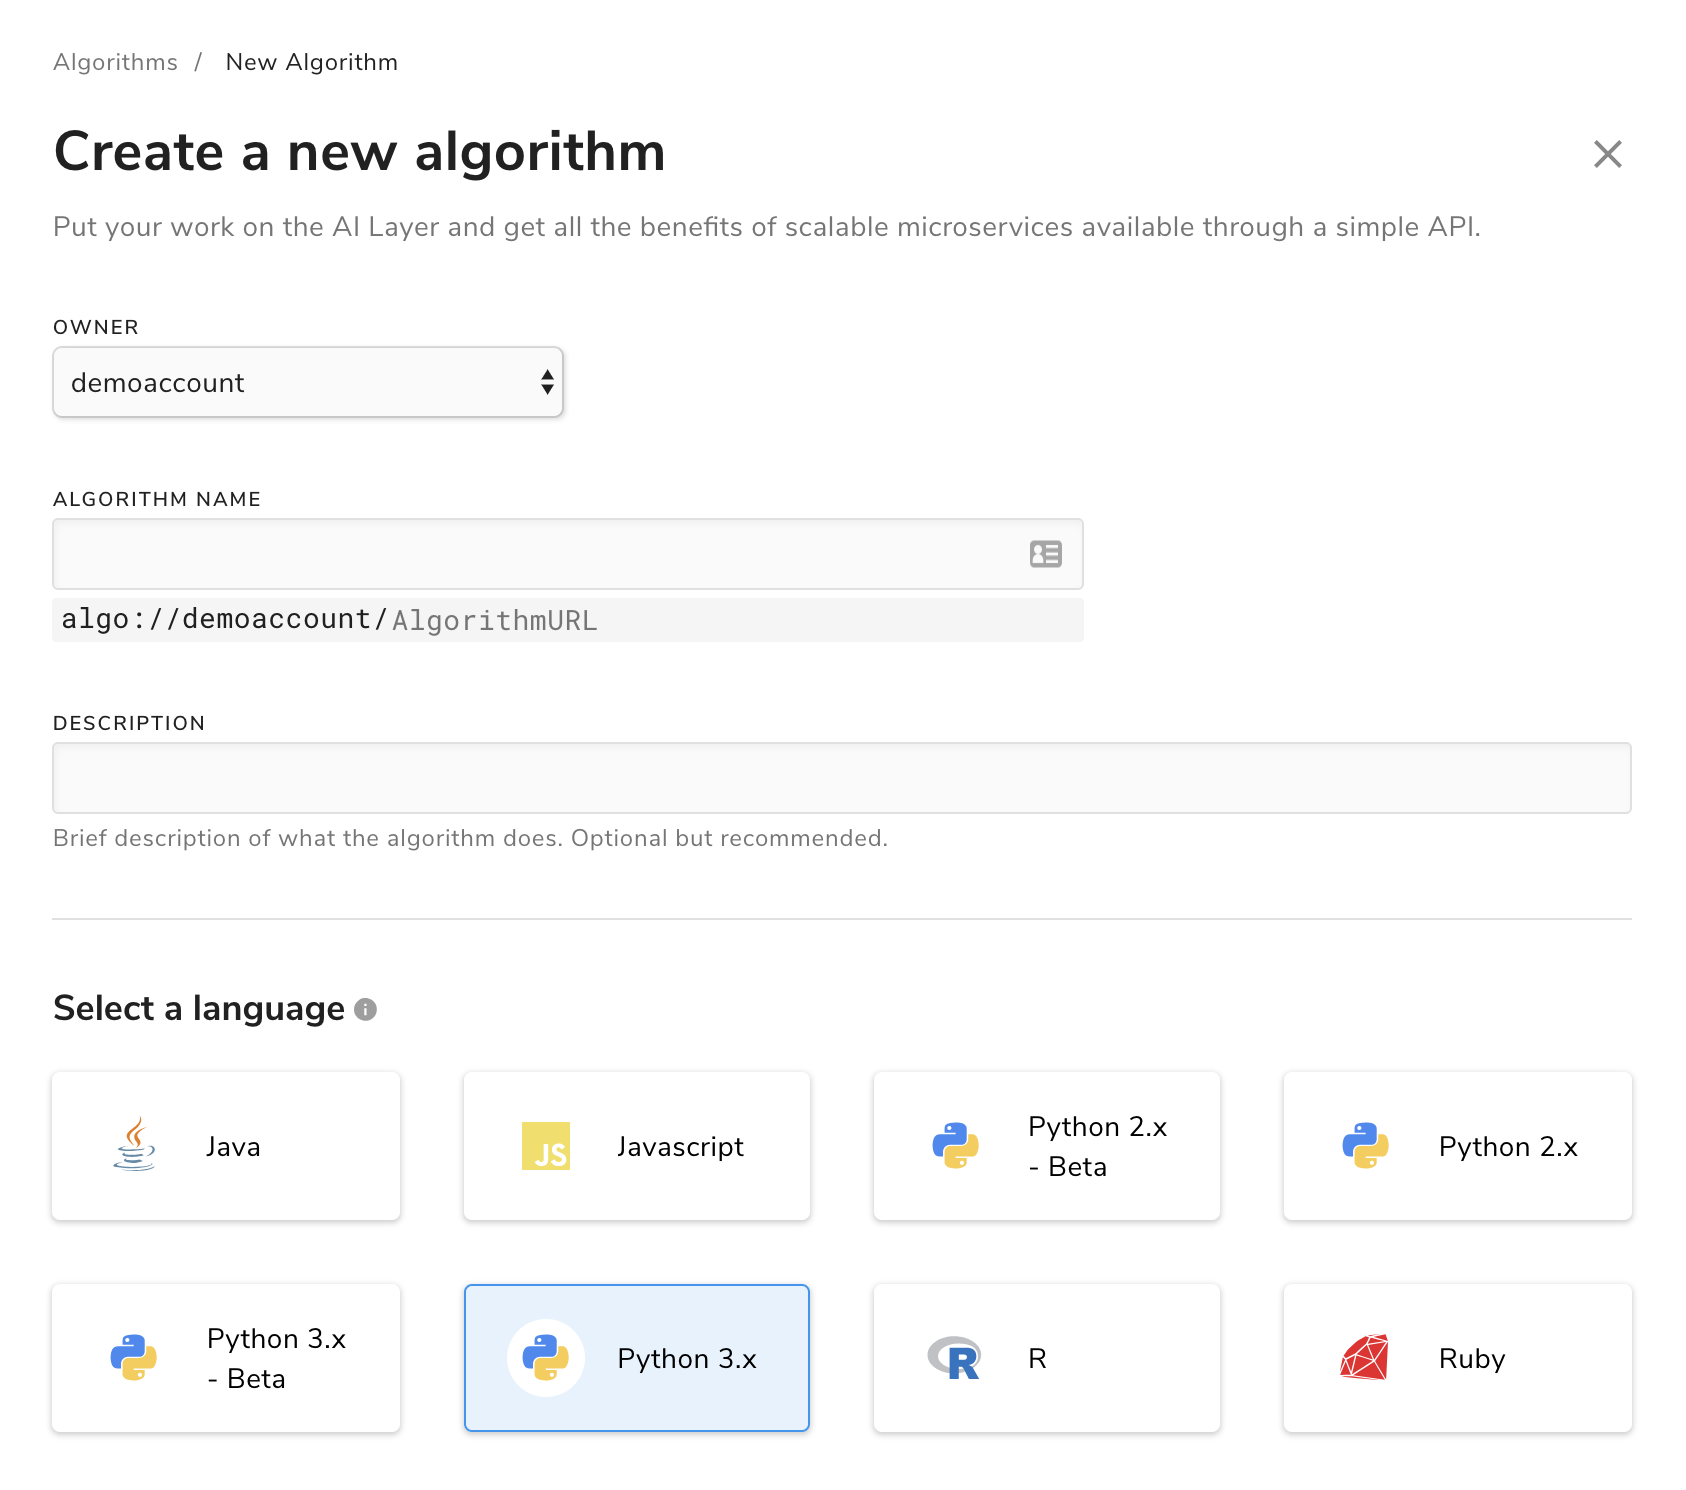
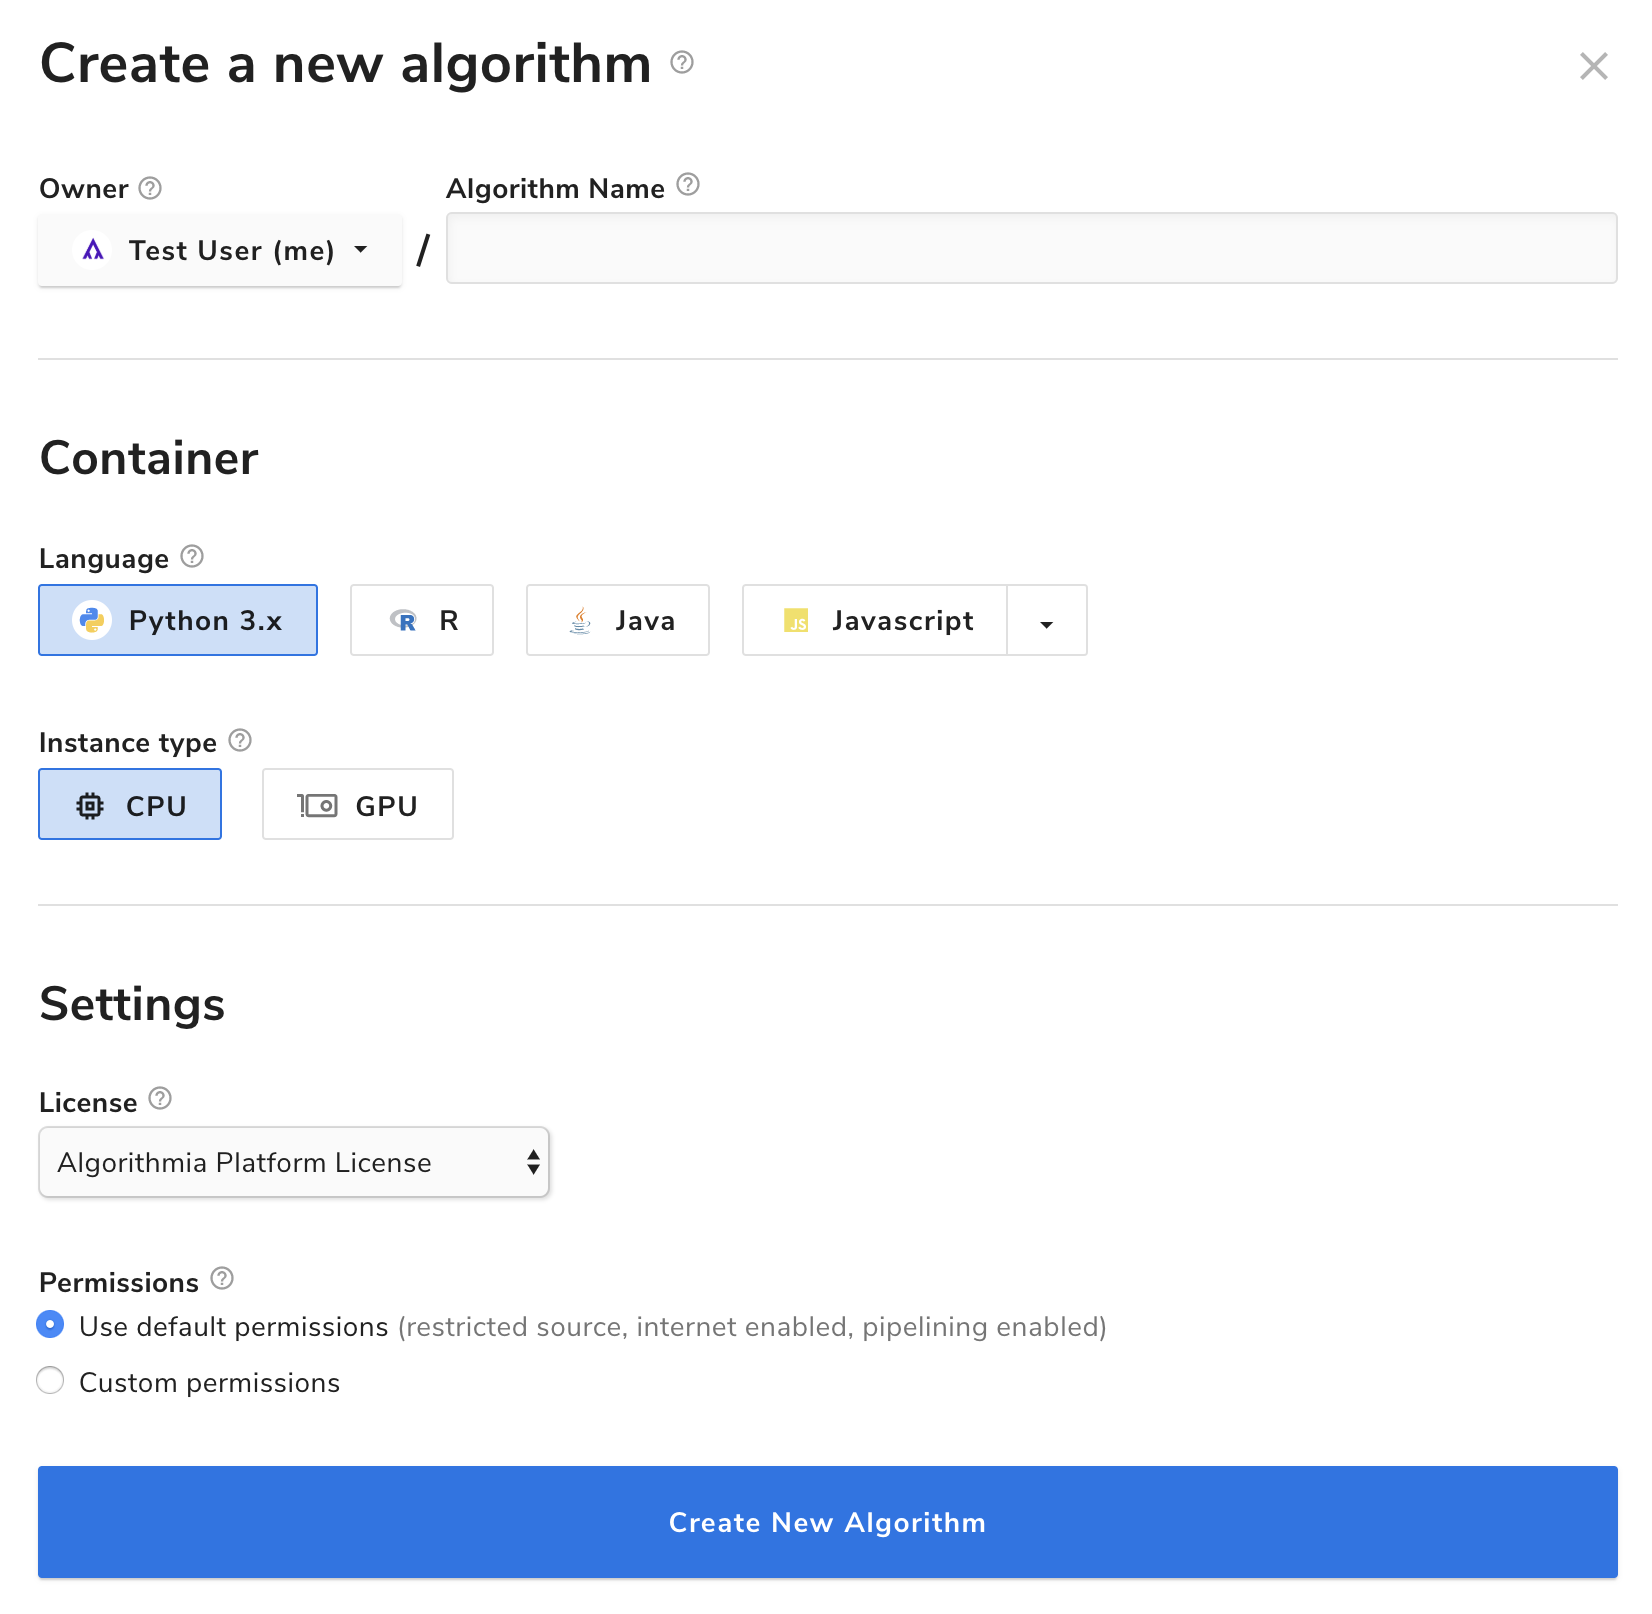
FRONTEND-1910 Update images/copy on algo getting started page.

diff --git a/_pages/algorithm-development/your-first-algo.md b/_pages/algorithm-development/your-first-algo.md
@@ -42,25 +42,27 @@ When you click the "Algorithm" link, you'll see a form for creating your algorit
 **Algorithmia Account or Organization**
 Note: If you don't belong to an organization, skip this step and go to the next.
 
-If you belong to an organization then you'll see this option before Algorithmia Name. Go ahead and select which account or organization you want to create your algorithm under.
+If you belong to an organization then you'll have the option to set the owner of the algorithm. Go ahead and select which account or organization you want to own this algorithm.
 
-**Algorithmia Name:** The first thing you'll notice in the form is the field "Algorithm Name" which will be the name of your algorithm. You'll want to name your algorithm something descriptive based on what the algorithm does.
+**Algorithm Name:** This is the unique identifier for the algorithm, which will be used to call it via the api. It should be something descriptive based on what the algorithm does.
 
-For example this is the beginning portion of the <a href="{{site.baseurl}}/algorithm-development/languages">Language Guides</a>  which show how to create an algorithm that splits text up into words, which is called tokenizing in natural language processing. So, this example algorithm is called "Tokenize Text", but go ahead and name your algorithm according to what your code does.
+For example this is the beginning portion of the <a href="{{site.baseurl}}/algorithm-development/languages">Language Guides</a>  which show how to create an algorithm that splits text up into words, which is called tokenizing in natural language processing. So, this example algorithm is called "TokenizeText", but go ahead and name your algorithm according to what your code does.
 
-**Algorithm ID:** The unique AlgoURL path users will use to call your algorithm.
+**Language:** Next you'll pick the language of your choice. Here we'll be using the default of Python 3.
 
-**Language:** Next you'll pick the language of your choice.
+**Instance type:** Here you can enable a GPU environment for you algorithm. Since we don't require that for this example, we'll leave the instance set to CPU.
 
 <img src="{{site.cdnurl}}{{site.baseurl}}/images/post_images/algo_dev_lang/create_algorithm_properties.png" alt="Create an algorithm" class="screenshot img-sm">
 
-**Source Code:** Because we want to make this algorithm open source and available for everyone to view the source code, we'll choose "Open Source".
+In the Settings section, you can select your algorithm's license, and customize its permissions if you need to. We're using the Algorithmia Platform License, and choosing custom permissions.
+
+**Source Code:** Because we want to make this algorithm open source and available for everyone to view the source code, we'll choose "Unrestricted".
 
 As an incentive to promote community contributions, open source algorithms that are not charging a royalty on the Algorithmia Platform will earn 1% of the usage cost (0.01cr/sec of execution time).
 
-**Special Permissions:** Next is the "Special Permissions" section that allows your algorithm to have access to the internet and allows it to call other algorithms. In this example we'll want access to the internet and since our final algorithm will call another algorithm we want to select "Can call other algorithms" as well.
+**Internet:** In this example we'll want access to the internet, so we'll leave this enabled.
 
-Also under Special Permissions, you can enable "CUDA/GPU". Since our algorithm doesn't require a GPU environment, we'll leave this disabled.
+**Pipelining:** This permission sets whether an algorithm can call other Algorithmia-hosted algorithms. Our example will need this enabled.
 
 You can find out more about algorithm permissions in the [Algorithm Permissions Section]({{site.baseurl}}/basics/permissions).  Also, consider whether your algorithm would benefit from using a Graphics Processing Unit to accelerate certain kinds of computation, such as image processing and deep learning. When "Advanced GPU" is selected, the algorithm will run on servers with GPU hardware, with specific drivers and frameworks to help algorithm developers take advantage of GPU computing. This includes nvidia drivers, CUDA support, and several of the most popular deep learning frameworks, including TensorFlow, Caffe, Theano, and Torch.
 {: .notice-info}
